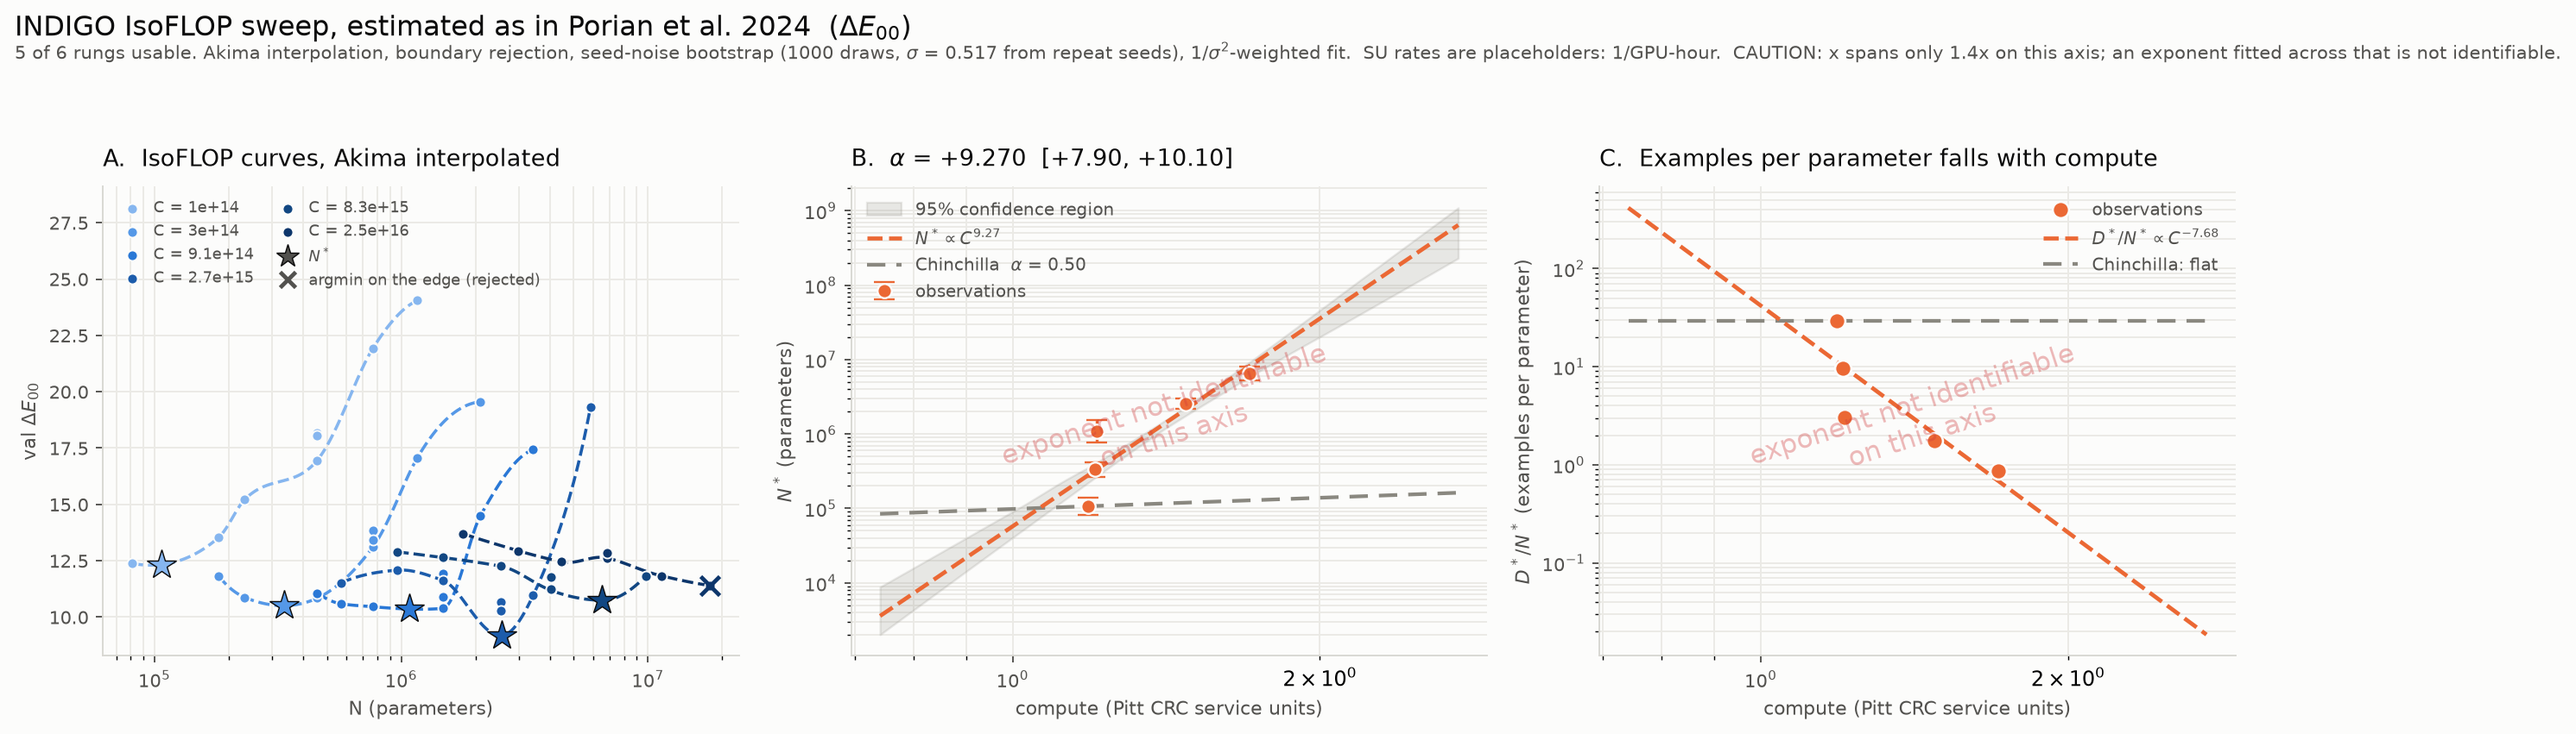
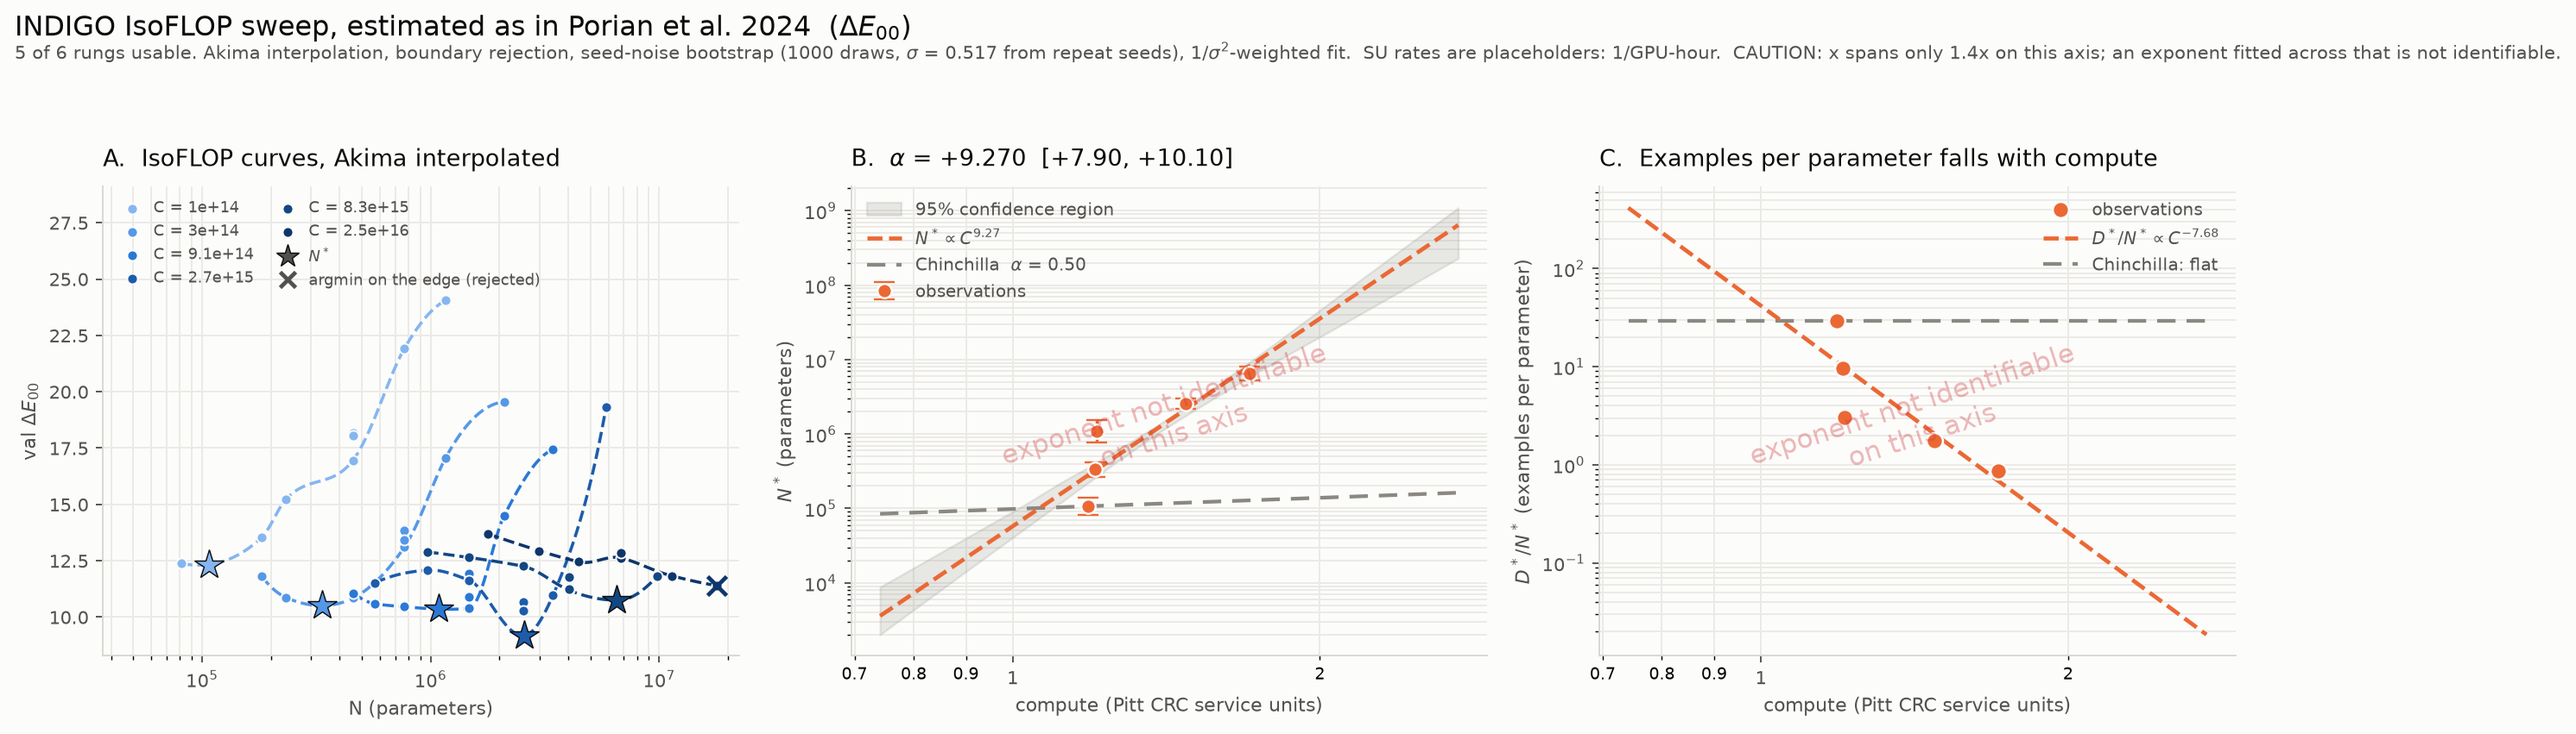
Print service units as plain numbers, not powers of ten
The credit axis spans well under a decade, so matplotlib's 10^0 was
labelling "one service unit" in scientific notation on the one axis
whose point is being readable to someone holding an allocation. It now
reads 0.7, 0.8, 0.9, 1, 2. The FLOP axis keeps exponents, where they
belong.

Claude-Session: https://claude.ai/code/session_01XghrhY6CG3yHYV4KvDtBnM

diff --git a/analyses/scaling/plot_porian.py b/analyses/scaling/plot_porian.py
@@ -33,6 +33,7 @@ import numpy as np
 import matplotlib
 matplotlib.use("Agg")
 import matplotlib.pyplot as plt
+from matplotlib.ticker import FuncFormatter
 
 sys.path.insert(0, str(Path(__file__).resolve().parents[2]))
 from src.scaling import porian as P                      # noqa: E402
@@ -54,6 +55,31 @@ def style(ax):
     ax.tick_params(colors=INK2, labelsize=9)
     ax.grid(True, color="#ebeae5", linewidth=0.8, which="both")
     ax.set_axisbelow(True)
+
+
+def plain_log_ticks(ax) -> None:
+    """Plain decimal labels on a log axis: 1, 2, 5 rather than 10^0.
+
+    Service units span well under a decade here, so every tick is a power of
+    ten only in the sense that matplotlib says so. Printing 10^0 for "one
+    service unit" is noise on an axis whose whole purpose is being readable to
+    someone holding an allocation.
+    """
+    def fmt(v, _pos):
+        if v <= 0:
+            return ""
+        if v >= 100:
+            return f"{v:,.0f}"
+        if v >= 10:
+            return f"{v:.0f}"
+        if v >= 1:
+            return f"{v:g}"
+        return f"{v:.2f}".rstrip("0").rstrip(".")
+
+    for axis in (ax.xaxis,):
+        axis.set_major_formatter(FuncFormatter(fmt))
+        axis.set_minor_formatter(FuncFormatter(fmt))
+    ax.tick_params(axis="x", which="minor", labelsize=8)
 
 
 def value_of(run, metric):
@@ -213,6 +239,8 @@ def main() -> None:
     ax.plot(grid, anchor, ls=(0, (5, 3)), color=REF, linewidth=1.8, zorder=2,
             label=r"Chinchilla  $\alpha$ = 0.50")
     ax.set_xscale("log"); ax.set_yscale("log")
+    if use_credits:
+        plain_log_ticks(ax)
     ax.set_xlabel(xlabel, color=INK2, fontsize=9.5)
     ax.set_ylabel(r"$N^*$ (parameters)", color=INK2, fontsize=9.5)
     ax.set_title(rf"B.  $\alpha$ = {n_law.exponent:+.3f}  "
@@ -232,6 +260,8 @@ def main() -> None:
     ax.plot(grid, np.full_like(grid, mult[0]), ls=(0, (5, 3)), color=REF,
             linewidth=1.8, zorder=1, label="Chinchilla: flat")
     ax.set_xscale("log"); ax.set_yscale("log")
+    if use_credits:
+        plain_log_ticks(ax)
     ax.set_xlabel(xlabel, color=INK2, fontsize=9.5)
     ax.set_ylabel(r"$D^*/N^*$ (examples per parameter)", color=INK2, fontsize=9.5)
     ax.set_title("C.  Examples per parameter falls with compute", color=INK,
